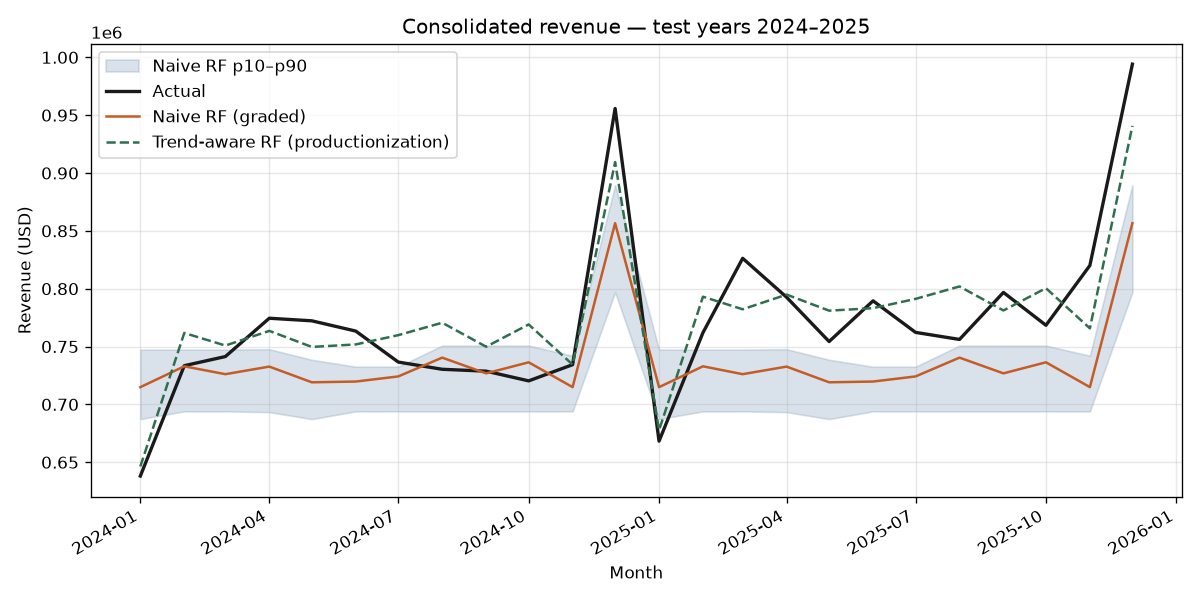
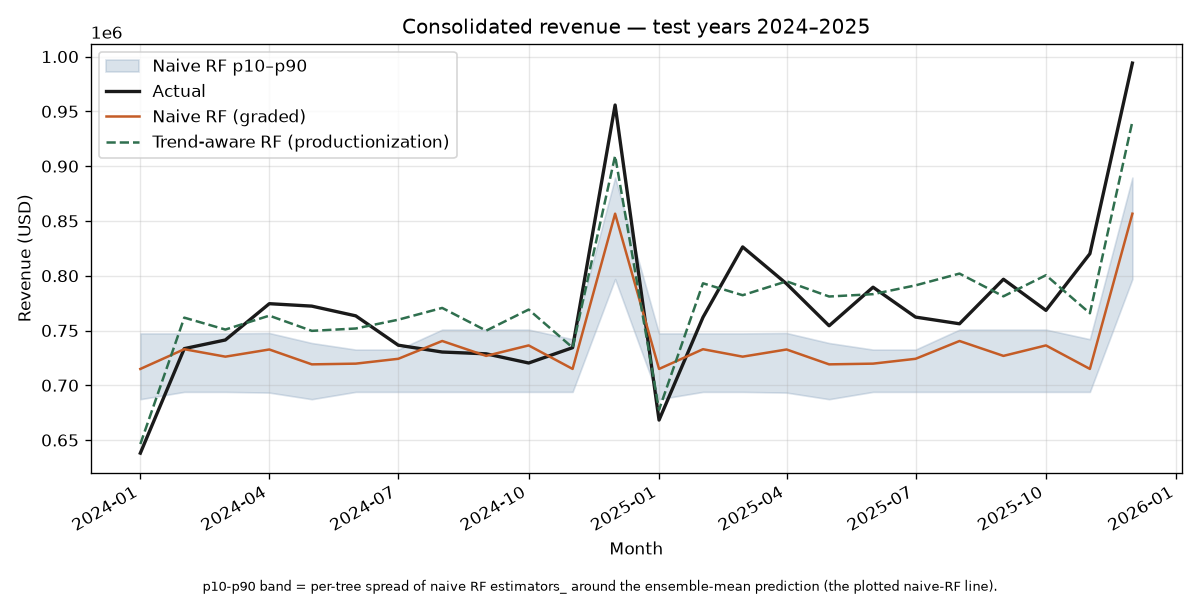
docs(data): annotate variability band centering on forecast chart

diff --git a/data/pipelines/sales_forecast.py b/data/pipelines/sales_forecast.py
@@ -232,7 +232,17 @@ def plot_test_forecast(
     ax.legend(loc="upper left")
     ax.grid(True, alpha=0.3)
     fig.autofmt_xdate()
-    fig.tight_layout()
+    fig.text(
+        0.5,
+        0.01,
+        "p10-p90 band = per-tree spread of naive RF estimators_ around the ensemble-mean "
+        "prediction (the plotted naive-RF line).",
+        ha="center",
+        va="bottom",
+        fontsize=8,
+        wrap=True,
+    )
+    fig.tight_layout(rect=(0, 0.04, 1, 1))
     fig.savefig(chart_path, dpi=120)
     plt.close(fig)
 
